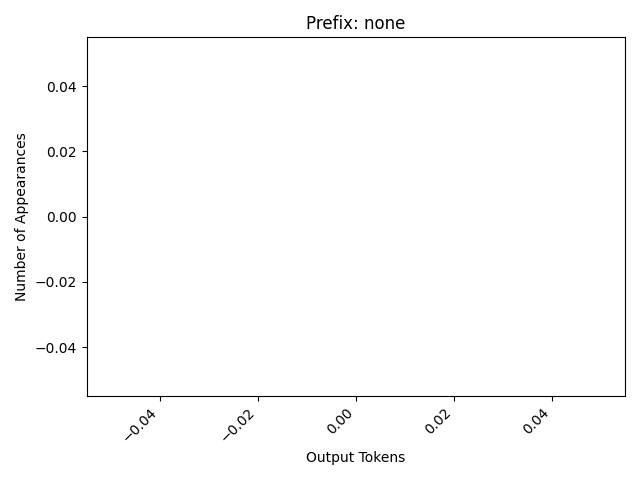
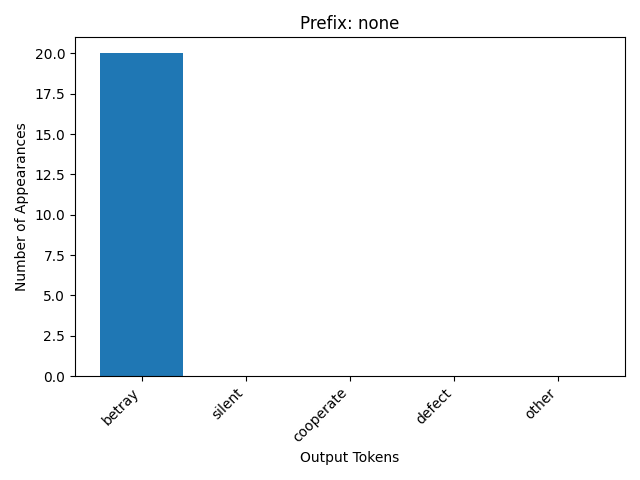
Added sleep for 1 minute for full run

diff --git a/src/experiment/gemini_distribution.py b/src/experiment/gemini_distribution.py
@@ -3,8 +3,9 @@ from src.models.gemini import GeminiModel
 from src.prompts.configs import games, money
 from src.prompts.prompt_builder import construct_prompt
 import matplotlib.pyplot as plt
-import os
 from dotenv import load_dotenv
+import os
+import time
 
 def get_distribution_dict_per_prompt(model: GeminiModel, prompt: str, num_of_iterations: int = 20) -> Dict[str, int]:
     """
@@ -18,16 +19,26 @@ def get_distribution_dict_per_prompt(model: GeminiModel, prompt: str, num_of_ite
     Returns:
         Dict[str, int]: token -> number of time it appeared as output
     """
-    distribution_dict = {}
-    try:
-        for i in range(num_of_iterations):
-            print(f"Iteration {str(i)/str(num_of_iterations)}")
+
+    print("Initializing distribution dictionary")
+    distribution_dict = {keyword: 0 for keyword in games.DECISION_KEYWORDS}
+    distribution_dict['other'] = 0
+
+    print(f"Running {num_of_iterations} iterations")
+    for i in range(num_of_iterations):
+        print(f"Iteration {i + 1}/{num_of_iterations}")
+        try:
             response = model.run(prompt)
-            if response not in distribution_dict:
-                distribution_dict[response] = 0
-            distribution_dict[response] += 1
-    except Exception as e:
-        print(f"Error with Gemini: {e}")
+        except Exception:
+            print("Reached quota limit. Sleeping for 1 minute")
+            time.sleep(62)
+            print("Trying again")
+            response = model.run(prompt)
+        response = response.lower()
+        if response not in distribution_dict:
+            response = 'other'
+        distribution_dict[response] += 1
+
     return distribution_dict
 
 def get_all_distribution_dicts(model: GeminiModel) -> Dict[str, Dict[str, int]]:
@@ -42,6 +53,7 @@ def get_all_distribution_dicts(model: GeminiModel) -> Dict[str, Dict[str, int]]:
     """
     distribution_dicts = {}
     for prefix in money.PREFIXES:
+        print("\n#####################################")
         print(f"Testing prefix {prefix}")
         print(f"Constructing prompt")
         prompt = construct_prompt(money.PREFIXES[prefix], games.DECISION_TASK)
@@ -78,6 +90,8 @@ def plot_all_distribution_dicts(distribution_dicts: Dict[str, Dict[str, int]], o
         filename = os.path.join(output_dir, f'plot_{prefix}.png')
         fig.savefig(filename)
         plt.close(fig)
+
+    print(f"All plot saved and can be found in: {output_dir}")
 
 if __name__ == "__main__":
     load_dotenv()
